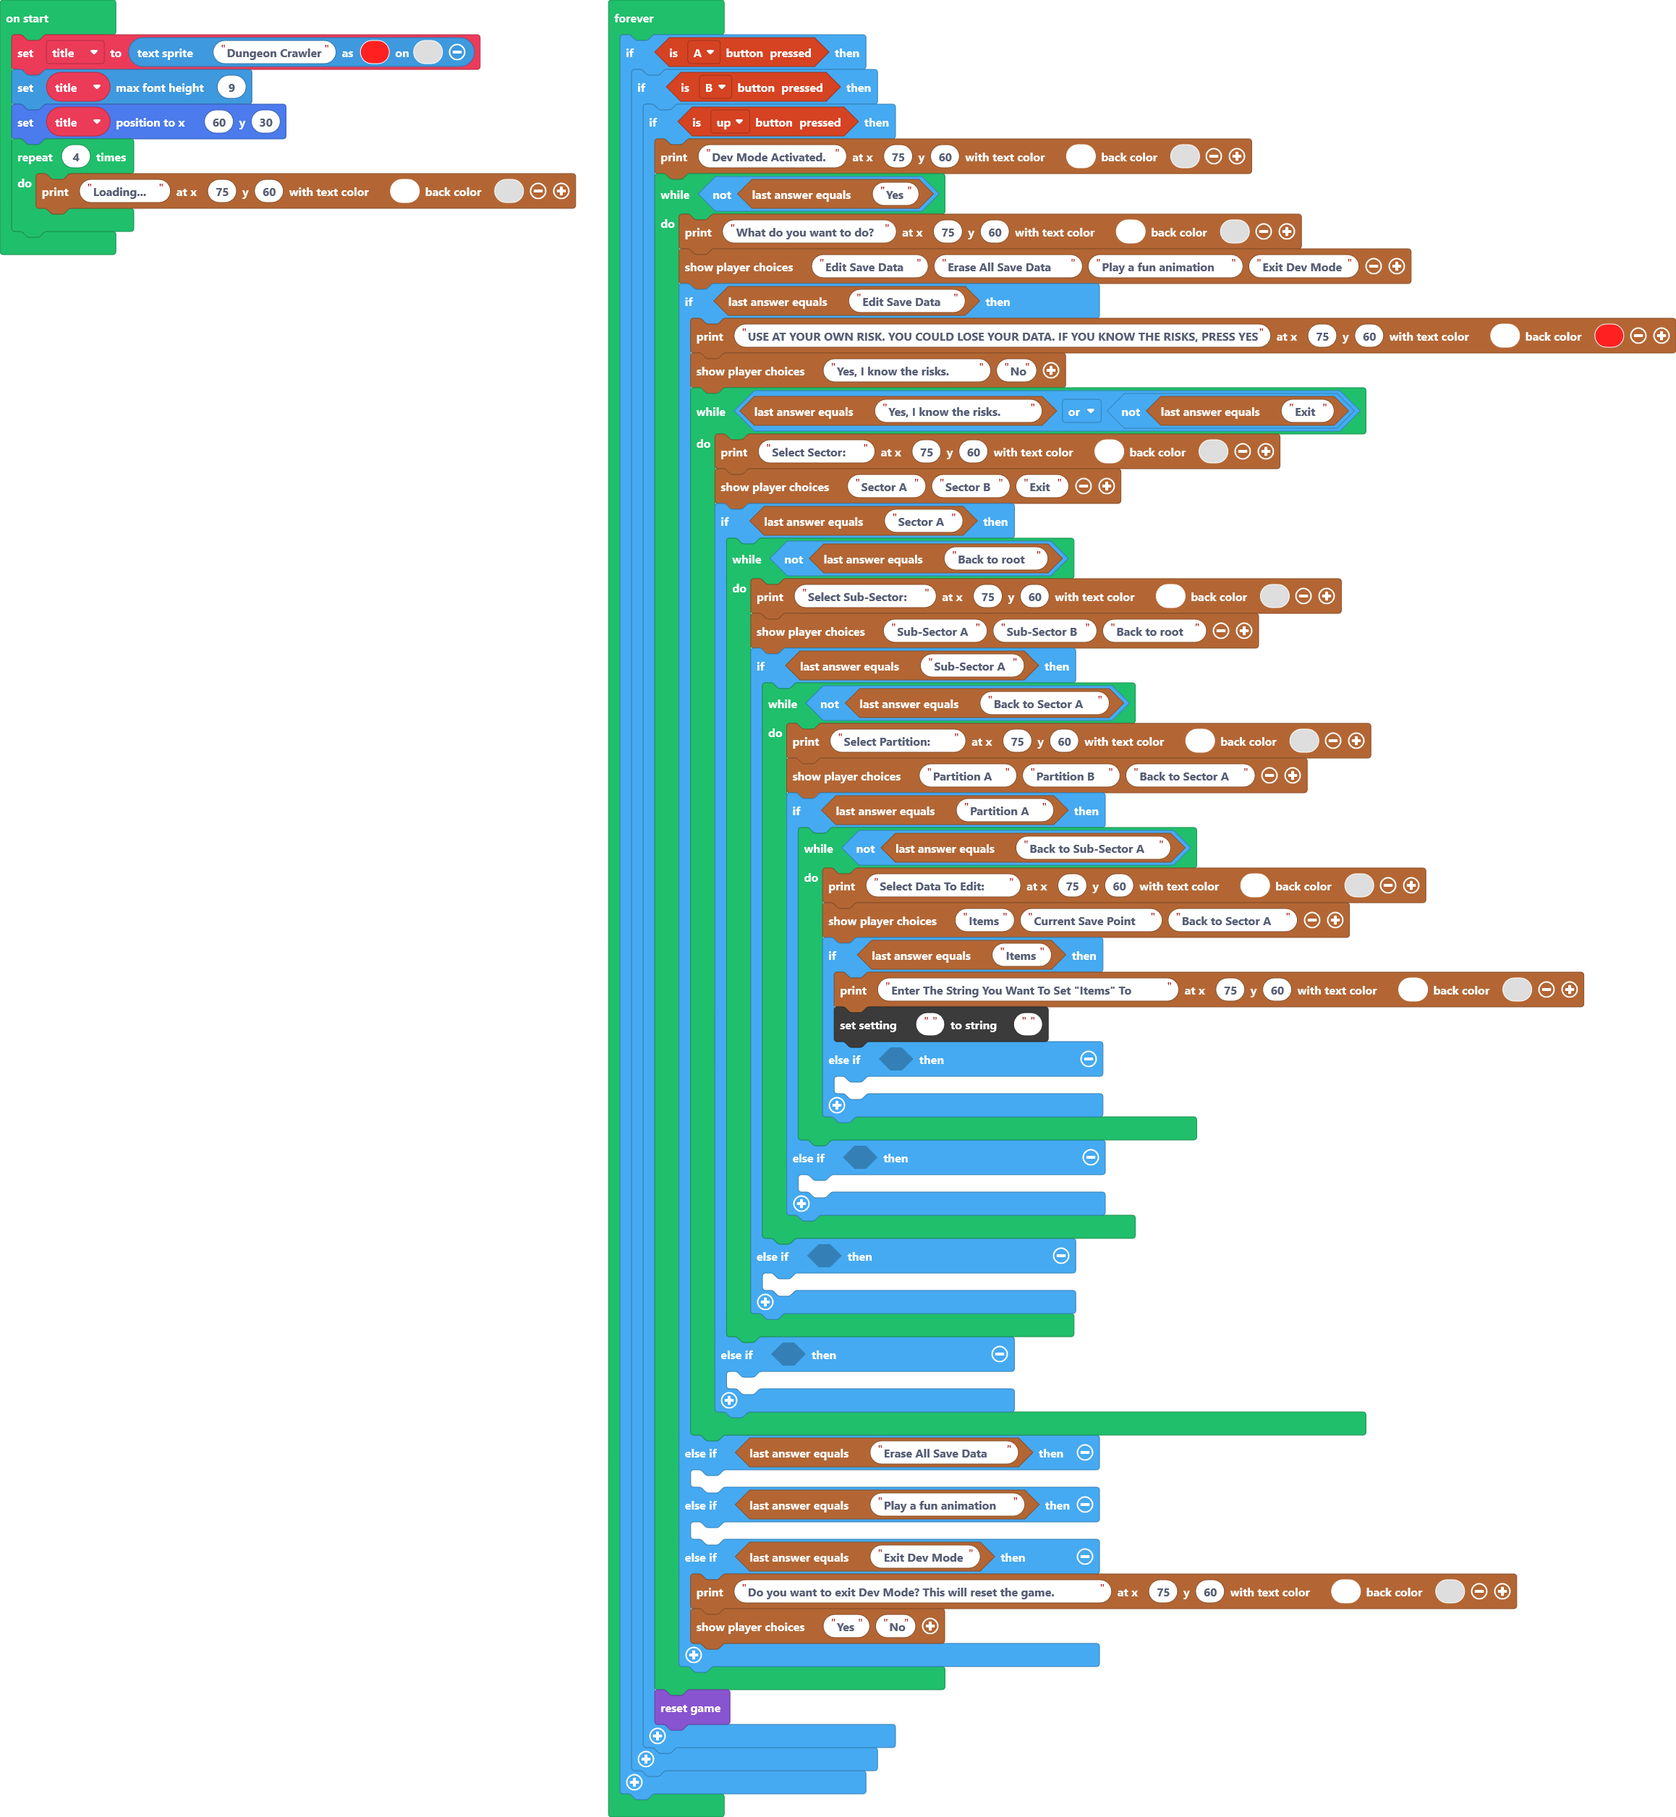
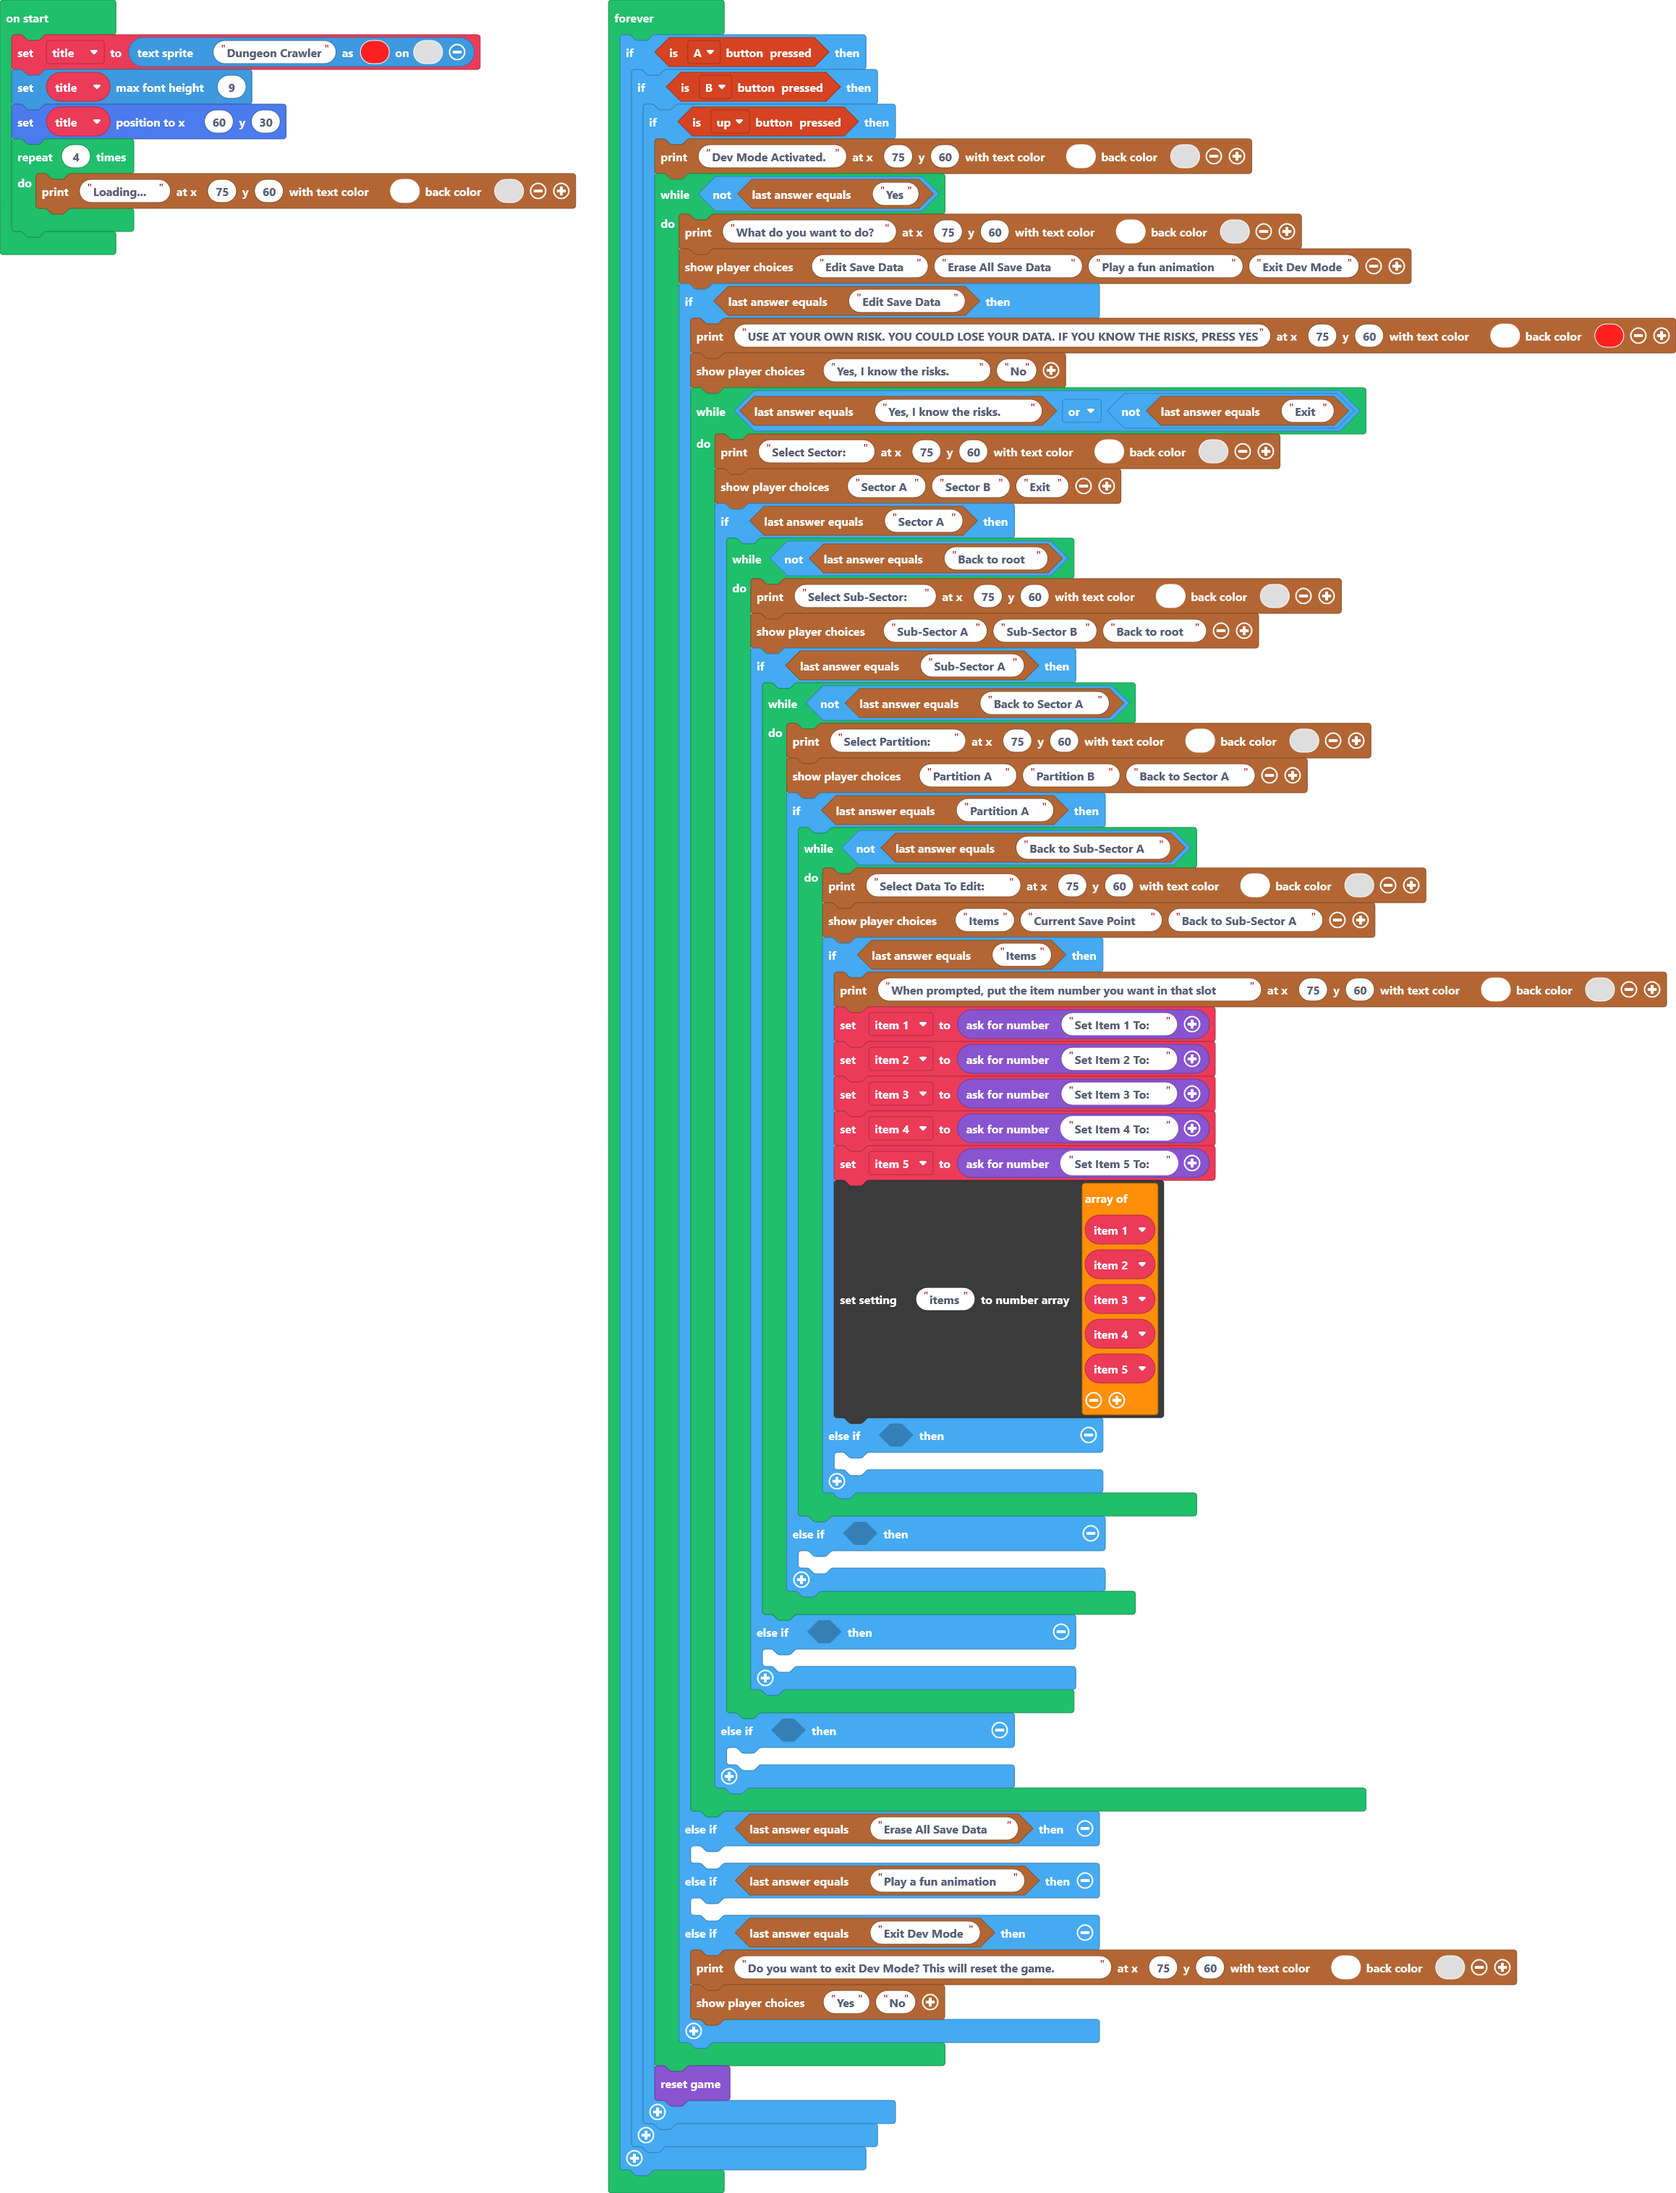
Update main.blocks, main.ts

Changed region(s): [[0.3729, 0.0, 1.0, 0.9936], [0.0, 0.0, 0.3418, 0.1553]]

diff --git a/main.ts b/main.ts
@@ -1,3 +1,8 @@
+let item_5 = 0
+let item_4 = 0
+let item_3 = 0
+let item_2 = 0
+let item_1 = 0
 let title = textsprite.create("Dungeon Crawler", 0, 2)
 title.setMaxFontHeight(9)
 title.setPosition(60, 30)
@@ -29,10 +34,21 @@ forever(function () {
                                             if (story.checkLastAnswer("Partition A")) {
                                                 while (!(story.checkLastAnswer("Back to Sub-Sector A"))) {
                                                     story.printText("Select Data To Edit:", 75, 60, 1, 0)
-                                                    story.showPlayerChoices("Items", "Current Save Point", "Back to Sector A")
+                                                    story.showPlayerChoices("Items", "Current Save Point", "Back to Sub-Sector A")
                                                     if (story.checkLastAnswer("Items")) {
-                                                        story.printText("Enter The String You Want To Set \"Items\" To", 75, 60, 1, 0)
-                                                        blockSettings.writeString("", "")
+                                                        story.printText("When prompted, put the item number you want in that slot", 75, 60, 1, 0)
+                                                        item_1 = game.askForNumber("Set Item 1 To:")
+                                                        item_2 = game.askForNumber("Set Item 2 To:")
+                                                        item_3 = game.askForNumber("Set Item 3 To:")
+                                                        item_4 = game.askForNumber("Set Item 4 To:")
+                                                        item_5 = game.askForNumber("Set Item 5 To:")
+                                                        blockSettings.writeNumberArray("items", [
+                                                        item_1,
+                                                        item_2,
+                                                        item_3,
+                                                        item_4,
+                                                        item_5
+                                                        ])
                                                     } else if (false) {
                                                     	
                                                     }
